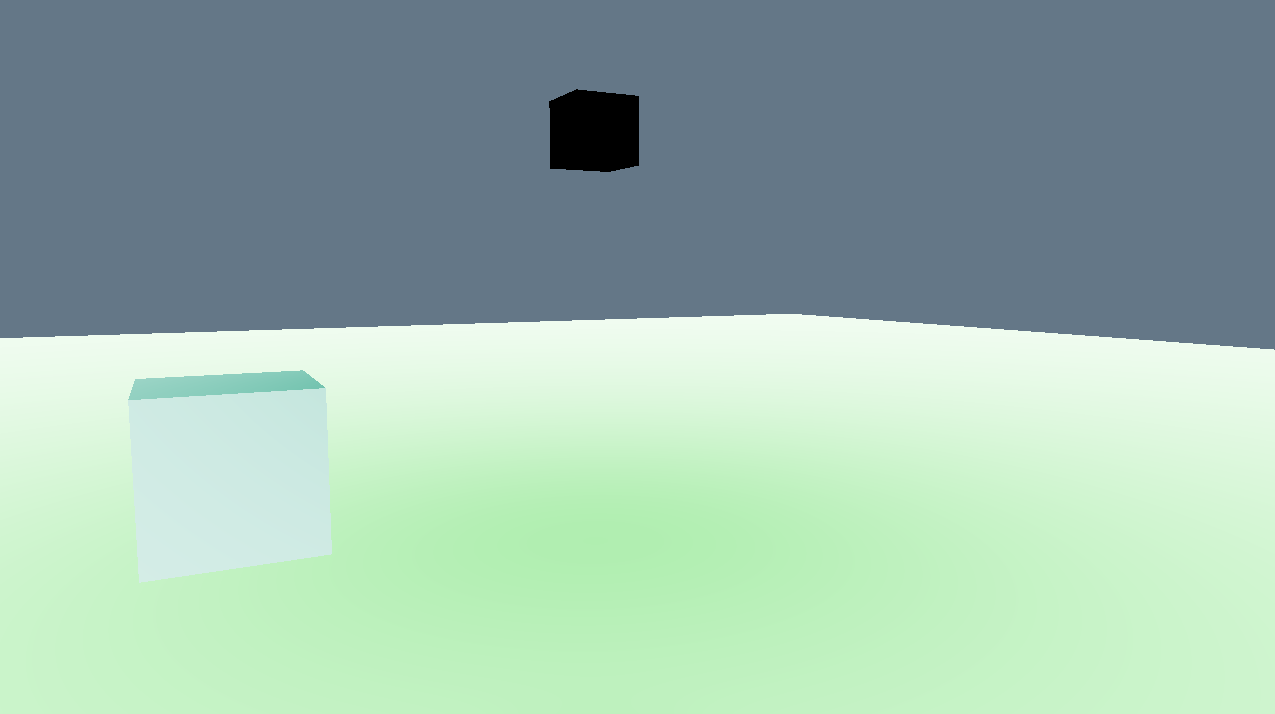
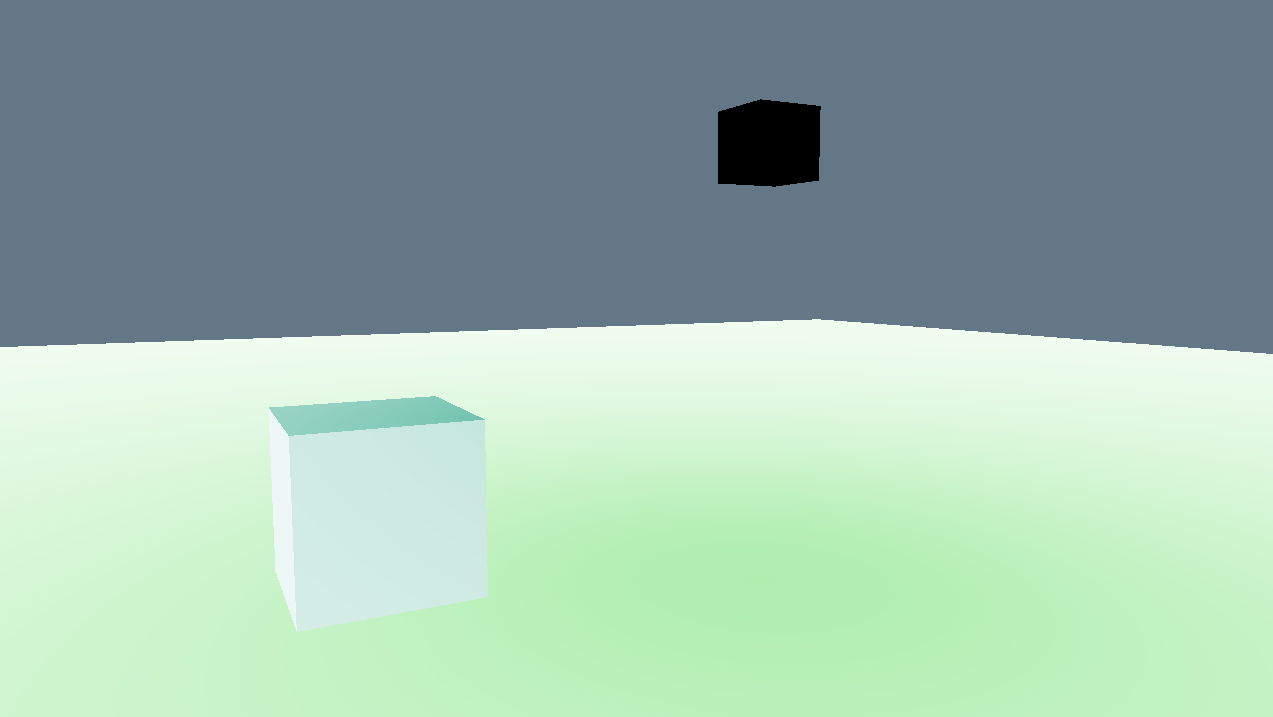
post processing

diff --git a/main.cpp b/main.cpp
@@ -296,11 +296,14 @@ int main(){
 	std::vector<bool*> effects;
 	bool inverse = false;
 	bool blur = false;
+	bool g_blur = false;
 
 	effects.push_back(&inverse);
 	effects.push_back(&blur);
+	effects.push_back(&g_blur);
 	GLint inverseLoc = glGetUniformLocation(fboShader.ID, "inverse");
 	GLint blurLoc = glGetUniformLocation(fboShader.ID, "blur");
+	GLint g_blurLoc = glGetUniformLocation(fboShader.ID, "g_blur");
 
 	while(isRunning){
 		Uint32 currentFrame = SDL_GetTicks();
@@ -327,6 +330,7 @@ int main(){
 					isRunning = false;
 					break;
 				case SDL_KEYDOWN:
+					/*
 					if(event.key.keysym.sym == SDLK_w)
 						cameraPos += cameraFront*speed;
 					if(event.key.keysym.sym == SDLK_s)
@@ -337,6 +341,7 @@ int main(){
 						cameraPos += glm::cross(cameraFront, cameraUp)*speed;
 					if(event.key.keysym.sym == SDLK_SPACE)
 						cameraPos += cameraUp*speed;
+					*/
 					if(event.key.keysym.sym == SDLK_1)
 						for(int i = 0; i < effects.size(); i++)
 							if(i == 0)
@@ -349,10 +354,19 @@ int main(){
 								*effects[i] = !*effects[i];
 							else
 								*effects[i] = false;
-						
+					if(event.key.keysym.sym == SDLK_3)
+						for(int i = 0; i < effects.size(); i++)
+							if(i == 2)
+								*effects[i] = !*effects[i];
+							else
+								*effects[i] = false;
+				
+					std::cout << "x: " << cameraPos.x << " y: " << cameraPos.y << " z: " << cameraPos.z << std::endl;
+					//For screenshots
+					cameraPos = glm::vec3(-0.978296, 1.31187, 5.00944);
 					break;
 				case SDL_MOUSEMOTION:
-					int x, y, offsetX, offsetY;
+					/*int x, y, offsetX, offsetY;
 					mouseState = SDL_GetRelativeMouseState(&x, &y);
 					offsetX = x - lastX;
 					offsetY = lastY - y;
@@ -371,9 +385,9 @@ int main(){
 					direction.z = sin(glm::radians(yaw)) * cos(glm::radians(pitch));
 
 					cameraFront = glm::normalize(direction);
-
+*/
 					//For screenshots
-					//cameraFront = glm::vec3(0.467069f, -0.101056f, -0.878427f);
+					cameraFront = glm::vec3(0.467069f, -0.101056f, -0.878427f);
 				     	break;
 				default:
 					break;	
@@ -415,6 +429,7 @@ int main(){
 
 		glUniform1i(inverseLoc, inverse);
 		glUniform1i(blurLoc, blur);
+		glUniform1i(g_blurLoc, g_blur);
 
 		glDrawArrays(GL_TRIANGLES, 0, 6);
 		

diff --git a/README.md b/README.md
@@ -4,6 +4,8 @@
 <br>
 2 - Blur
 <br>
+3 - Gaussian blur
+<br>
 Press the same button to undo effect
 ### Framebuffer:
 ![Image 1](images/Image_1.png) 
@@ -15,3 +17,6 @@ Press the same button to undo effect
 <br>
 ### Blur (2):
 ![Image 4](images/Image_4.png)
+<br>
+### Gaussian blur (3):
+![Image 5](images/Image_5.png)
